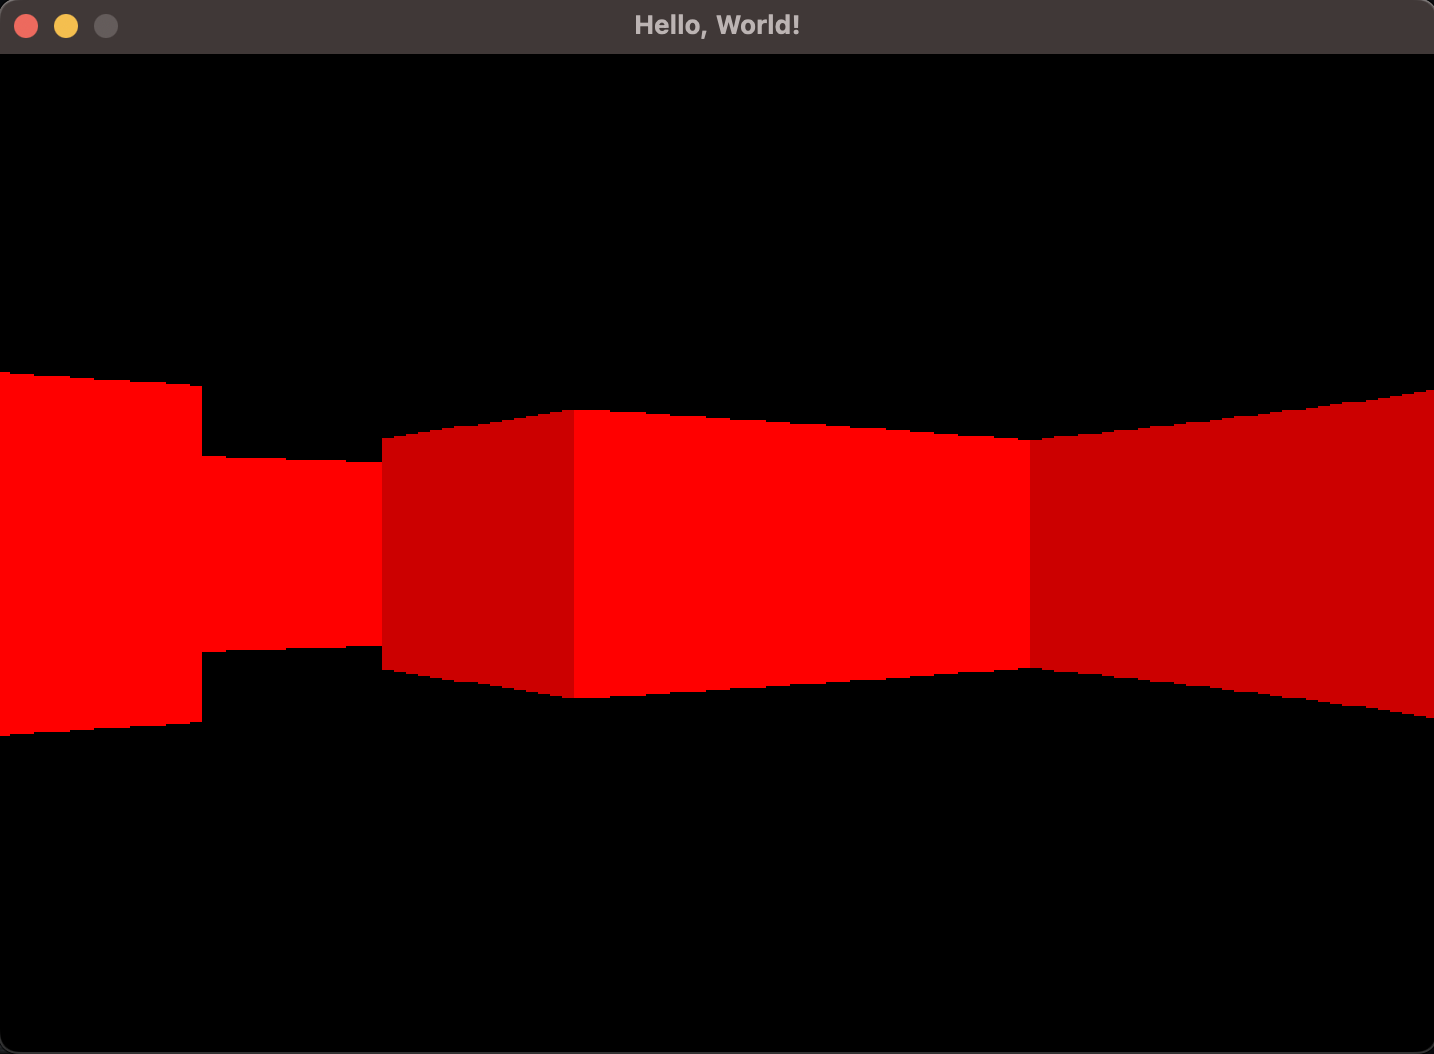
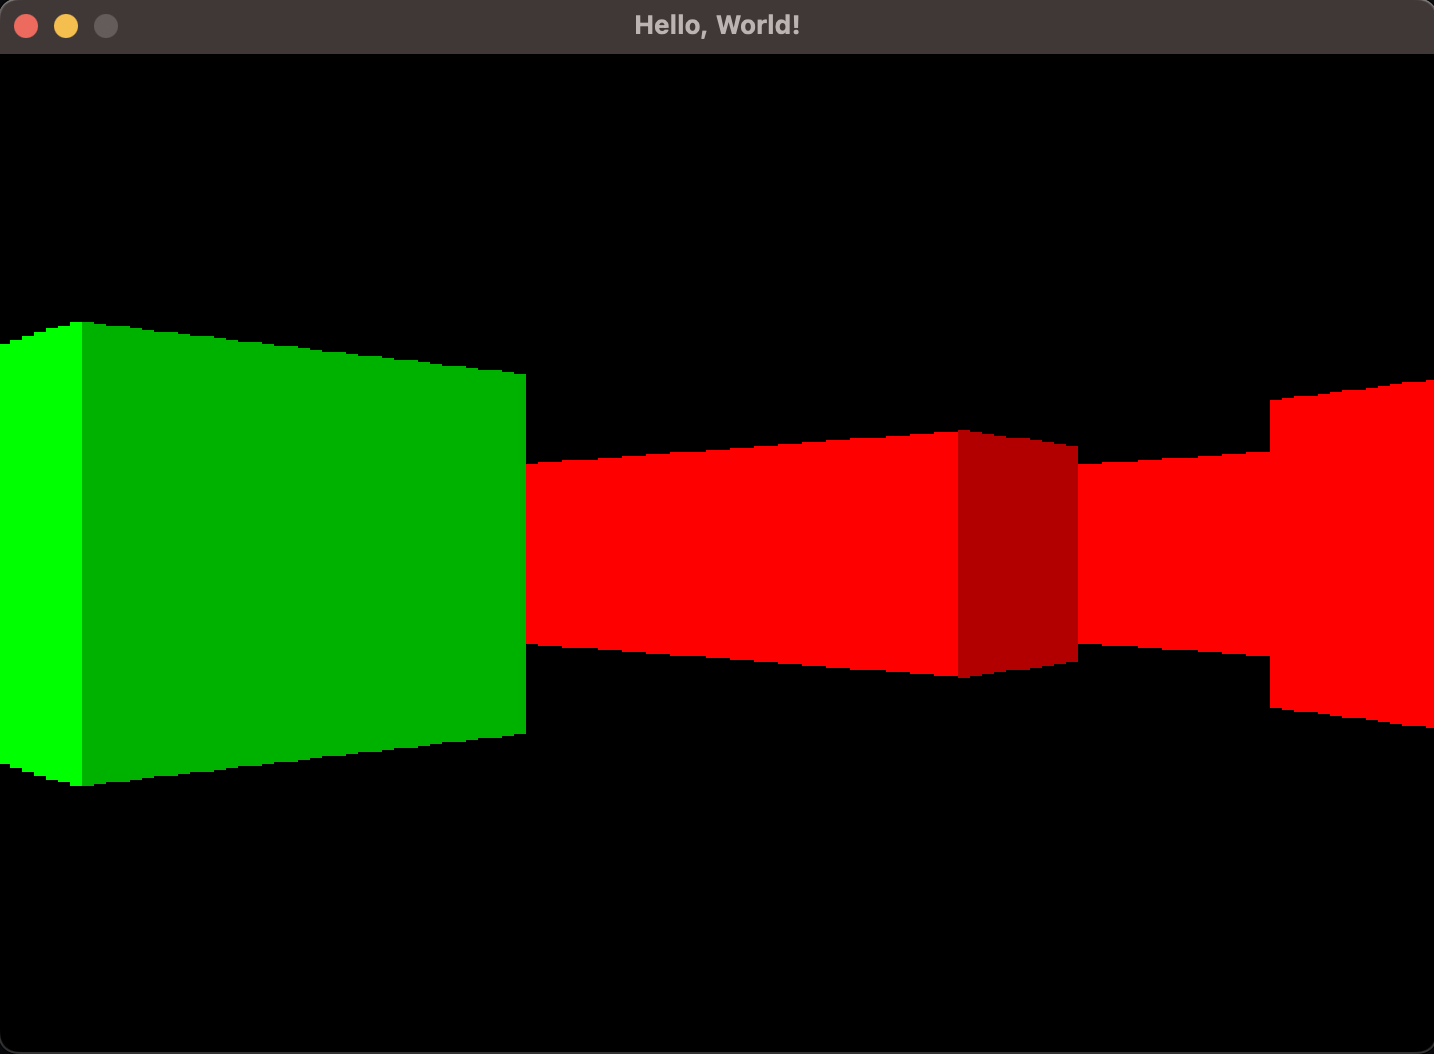
gameraycast: Different wall types

Changed region(s): [[0.0, 0.3036, 1.0, 0.759]]

diff --git a/gameraycast/gameraycast.go b/gameraycast/gameraycast.go
@@ -26,7 +26,8 @@ type Game struct {
 	drawMap      bool    // Draw Map
 }
 
-func newGame() *Game {
+// NewGame creates a new Game
+func NewGame() *Game {
 	return &Game{
 		windowHeight: 500,
 		windowWidth:  720,
@@ -44,7 +45,7 @@ func newGame() *Game {
 			1, 0, 1, 0, 0, 0, 0, 1,
 			1, 0, 1, 0, 0, 0, 0, 1,
 			1, 0, 0, 0, 0, 0, 0, 1,
-			1, 0, 1, 0, 0, 0, 0, 1,
+			1, 0, 1, 0, 0, 2, 0, 1,
 			1, 0, 1, 0, 0, 0, 0, 1,
 			1, 0, 1, 0, 0, 0, 0, 1,
 			1, 1, 1, 1, 1, 1, 1, 1,
@@ -134,7 +135,7 @@ func (g *Game) CastRays(screen *ebiten.Image) {
 
 		// Check vertical lines
 		dof = 0
-		var disV float64 = 1000 // Distance to vertical wall
+		disV := 1000.0 // Distance to vertical wall
 		vx := g.px
 		vy := g.py
 		nTan := -math.Tan(ra)
@@ -201,11 +202,23 @@ func (g *Game) CastRays(screen *ebiten.Image) {
 			lineH = float64(g.windowHeight)
 		}
 
-		if isVertical {
-			ebitenutil.DrawRect(screen, float64(r*g.windowWidth/120), float64(g.windowHeight/2)-lineH/2, float64(g.windowWidth/120), lineH, color.RGBA{255, 0, 0, 255})
-		} else {
-			ebitenutil.DrawRect(screen, float64(r*g.windowWidth/120), float64(g.windowHeight/2)-lineH/2, float64(g.windowWidth/120), lineH, color.RGBA{204, 0, 0, 255})
+		// Find the type of tile we hit with the ray.
+		var tileType int
+		{
+			mx = (int(rx) >> 6)
+			my = (int(ry) >> 6)
+			mp = my*g.mapx + mx
+			if mp > 0 && mp < g.mapx*g.mapy {
+				tileType = g.mapArray[mp]
+			}
 		}
+
+		// Set the color of the wall.
+		col := getWallColor(tileType)
+		if !isVertical {
+			col = darkenColor(col, 0.7) // Horizontal walls are darker.
+		}
+		ebitenutil.DrawRect(screen, float64(r*g.windowWidth/120), float64(g.windowHeight/2)-lineH/2, float64(g.windowWidth/120), lineH, col)
 
 		ra += 0.00872665 // half a degree in radians
 		if ra < 0 {
@@ -216,8 +229,30 @@ func (g *Game) CastRays(screen *ebiten.Image) {
 	}
 }
 
+func getWallColor(t int) color.RGBA {
+	if t <= 0 && t >= len(wallTypeColors) {
+		return wallTypeColors[0]
+	}
+	return wallTypeColors[t]
+}
+
+var wallTypeColors = []color.RGBA{
+	{0, 0, 0, 255},
+	{255, 0, 0, 255},
+	{0, 255, 0, 255},
+}
+
+func darkenColor(c color.RGBA, amount float64) color.RGBA {
+	return color.RGBA{
+		uint8(float64(c.R) * amount),
+		uint8(float64(c.G) * amount),
+		uint8(float64(c.B) * amount),
+		c.A,
+	}
+}
+
 func Run() {
-	g := newGame()
+	g := NewGame()
 	ebiten.SetWindowSize(g.windowWidth, g.windowHeight)
 	ebiten.SetWindowTitle("Hello, World!")
 	if err := ebiten.RunGame(g); err != nil {

diff --git a/gameraycast/README.md b/gameraycast/README.md
@@ -5,6 +5,18 @@ NOTE: This is currently a modified fork of https://github.com/samuel-pratt/rayca
 - https://github.com/TheInvader360/dungeon-crawler
 - https://github.com/Myu-Unix/ray_engine
 
+This is an excellent collection of tutorials on raycasting:
+
+- https://github.com/vinibiavatti1/RayCastingTutorial
+
 The ultimate goal is to create a basic dungeon crawler for the various dungeon and tile map generators that accumulate in this repository.
 
 ![alt text](https://raw.githubusercontent.com/Flokey82/go_gens/master/gameraycast/images/basic.png "Screenshot of basic raycast!")
+
+## TODO
+
+- [X] Basic raycasting, movement, rendering
+- [X] Add different wall types and colors
+- [ ] Add textures
+- [ ] Add minimap
+- [ ] Add custom maps
